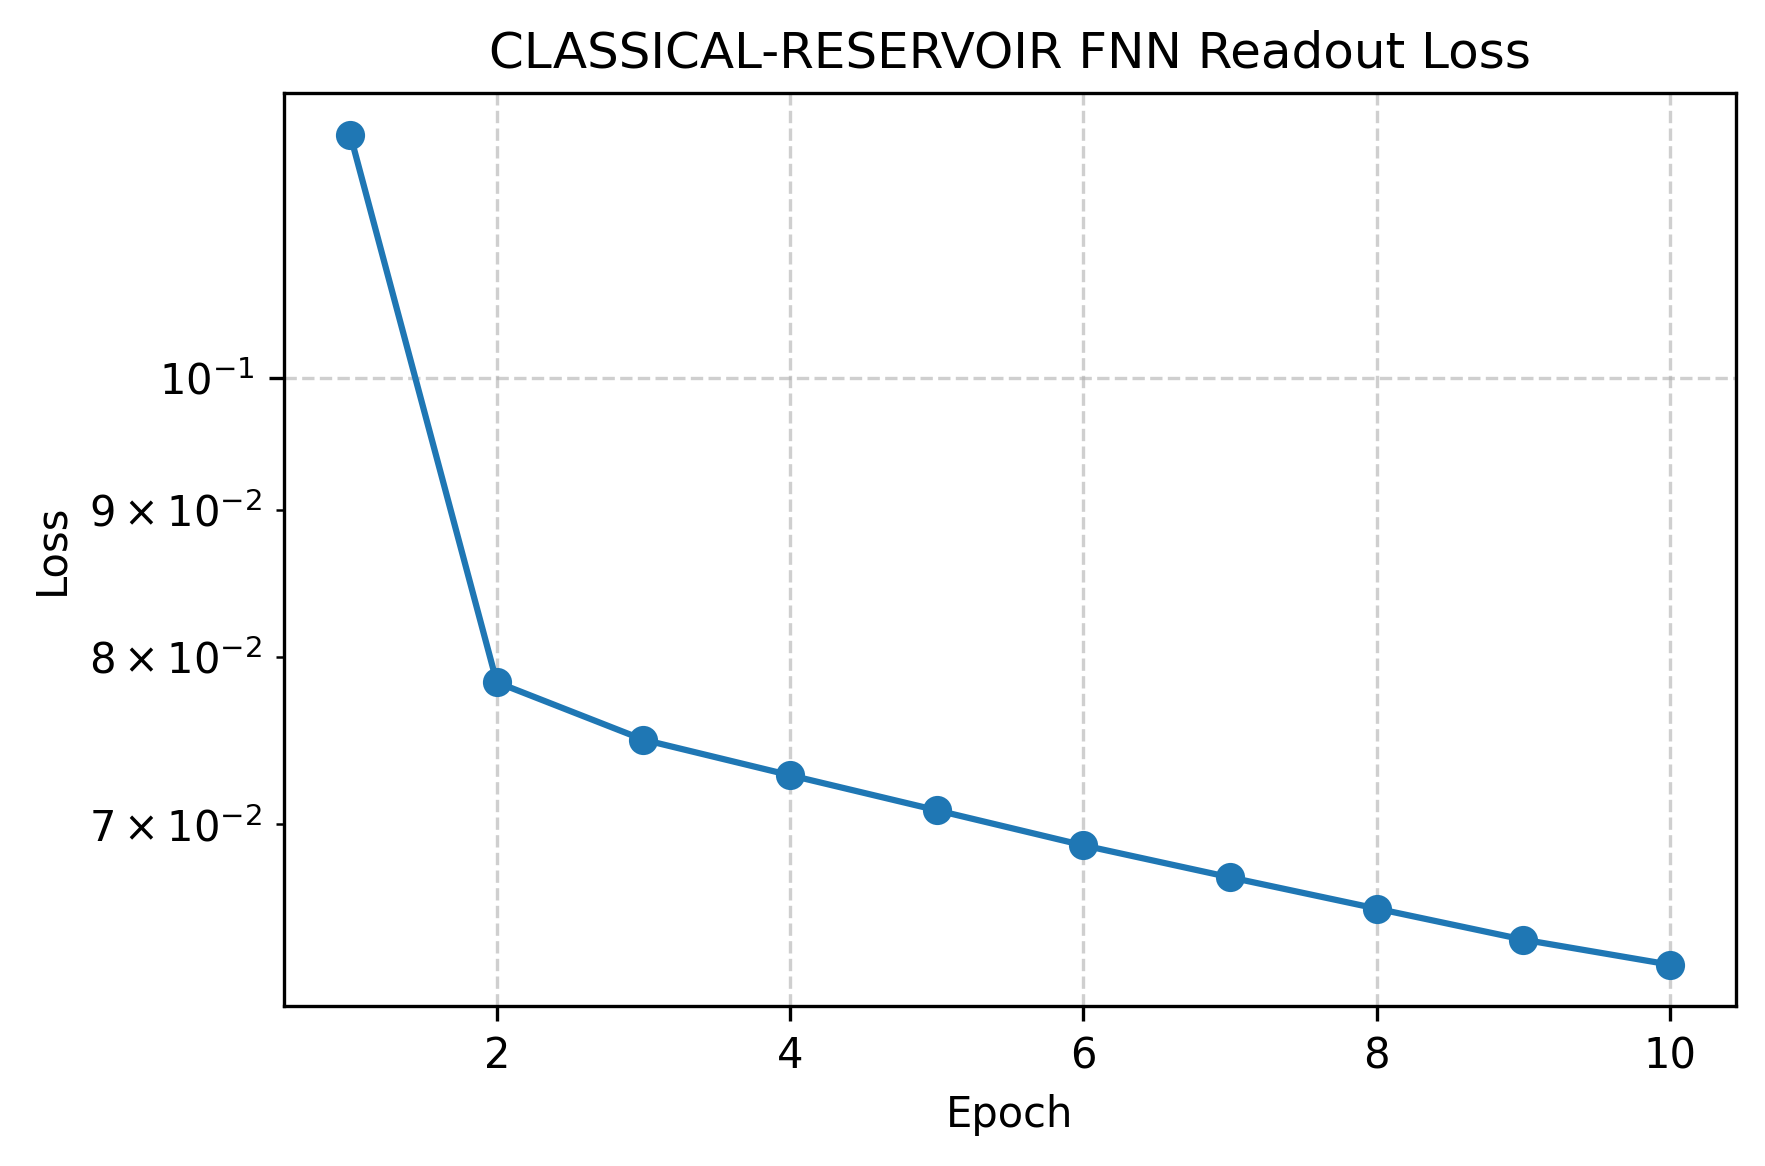
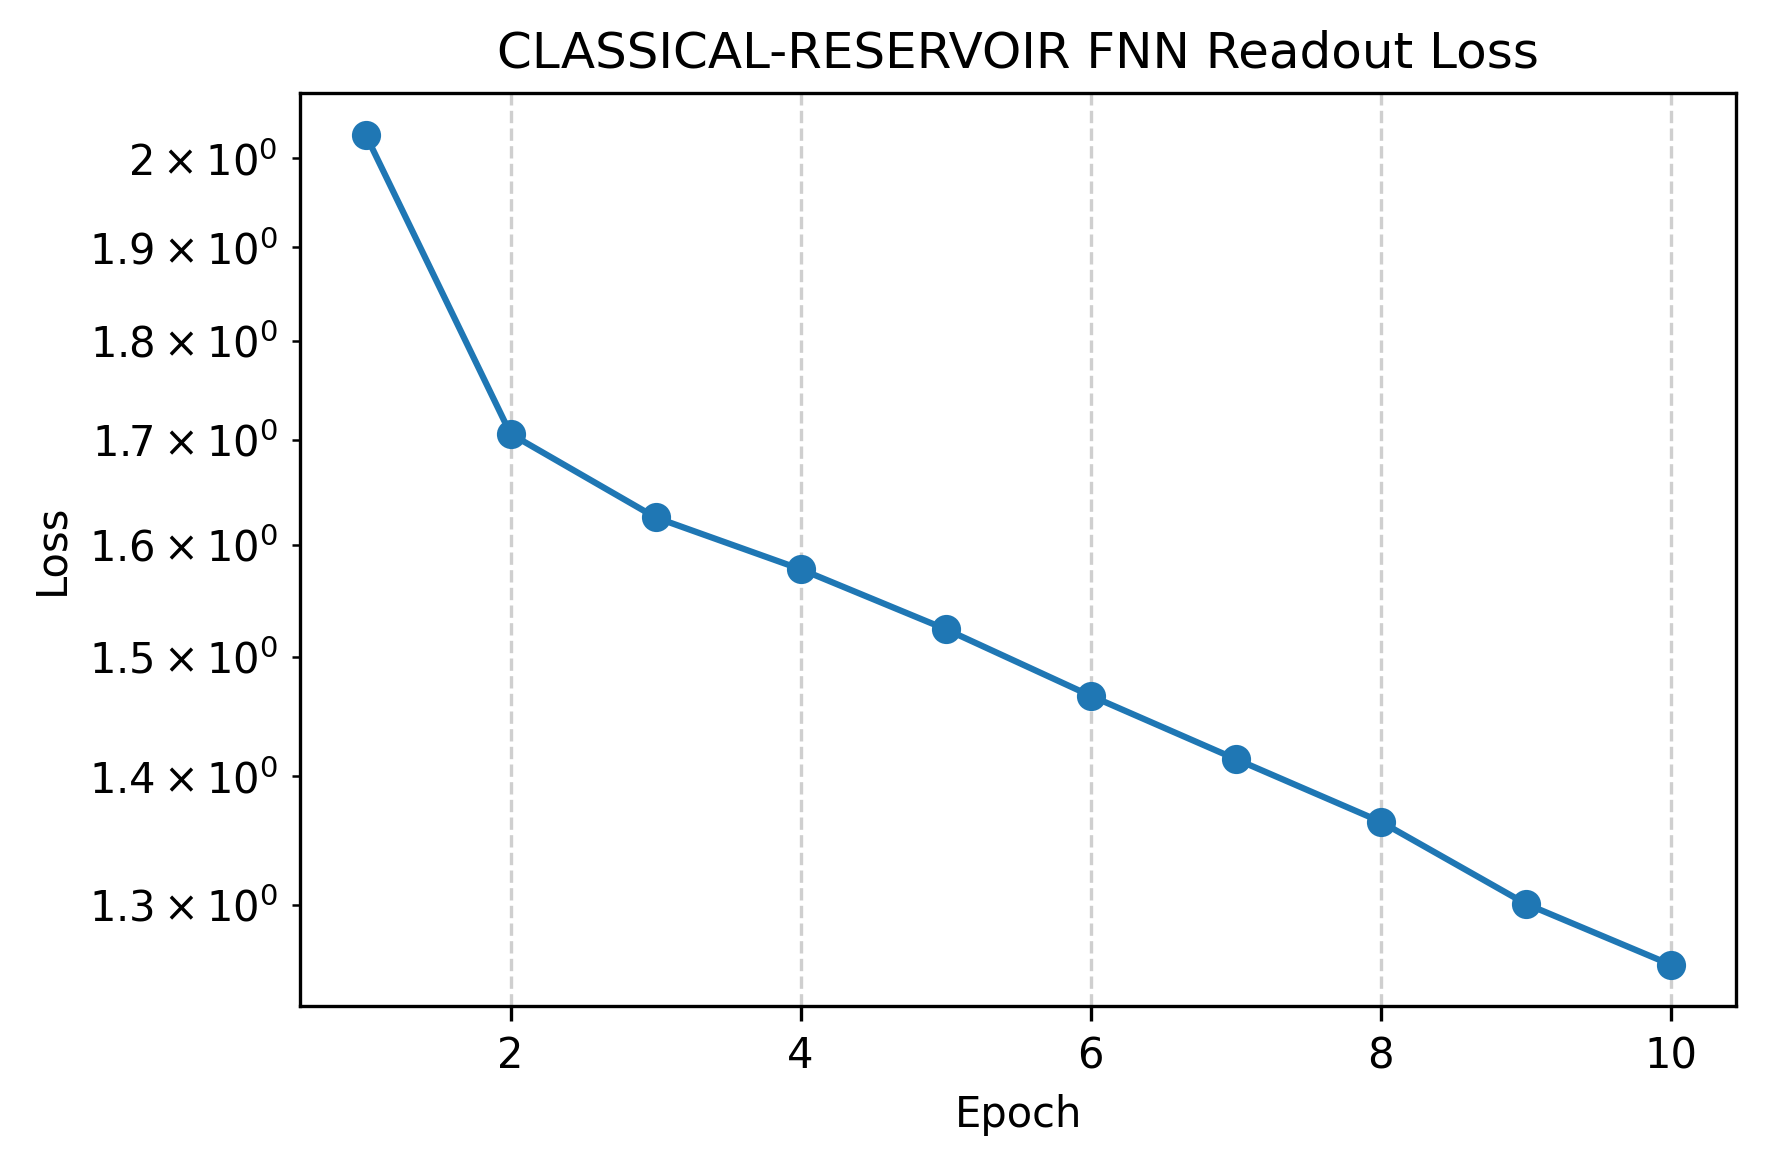
delete ENUM task_type

diff --git a/src/reservoir/pipelines/run.py b/src/reservoir/pipelines/run.py
@@ -15,7 +15,7 @@ import numpy as np
 
 # Core Imports
 from reservoir.models import ModelFactory
-from reservoir.core.identifiers import Dataset, TaskType
+from reservoir.core.identifiers import Dataset
 from reservoir.pipelines.config import DatasetMetadata, FrontendContext, ModelStack
 from reservoir.utils.printing import print_topology
 from reservoir.pipelines.generic_runner import UniversalPipeline
@@ -76,9 +76,7 @@ def _prepare_dataset(dataset: Dataset, training_override: Optional[TrainingConfi
     print("=== Step 1: Loading Dataset ===")
     dataset_enum, dataset_preset = dataset, DATASET_REGISTRY.get(dataset)
 
-    training_cfg = training_override or replace(
-        get_training_preset("standard"), classification=dataset.task_type is TaskType.CLASSIFICATION
-    )
+    training_cfg = training_override or get_training_preset("standard")
     dataset_split = load_dataset_with_validation_split(
         dataset,
         training_cfg,
@@ -95,7 +93,7 @@ def _prepare_dataset(dataset: Dataset, training_override: Optional[TrainingConfi
         dataset_name=dataset_preset.name,
         preset=dataset_preset,
         training=training_cfg,
-        task_type=dataset_preset.task_type,
+        classification=dataset_preset.classification,
         input_shape=input_shape,
     )
     return metadata, dataset_split
@@ -125,7 +123,7 @@ def _process_frontend(config: PipelineConfig, raw_split: SplitDataset, dataset_m
             
         # Fix: For Regression, targets (y) should also be scaled if they share the domain (Auto-Regression)
         # This ensures model output is scaled, matching the inverse_transform expectation.
-        if dataset_meta.task_type == TaskType.REGRESSION:
+        if not dataset_meta.classification:
              print("    [Preprocessing] Applying transforms to targets (y) for REGRESSION task.")
              # Note: fit=False to reuse scaler fitted on X
              if data_split.train_y is not None:
@@ -272,7 +270,8 @@ def _build_model_stack(
     topo_meta["details"] = details_meta
     
     # Add readout name to details for topology printing
-    readout = ReadoutFactory.create_readout(config.readout, dataset_meta.training)
+    is_classification = dataset_meta.classification
+    readout = ReadoutFactory.create_readout(config.readout, is_classification, dataset_meta.training)
     if readout is not None:
         readout_name = type(readout).__name__
         if hasattr(readout, 'hidden_layers') and readout.hidden_layers:
@@ -283,7 +282,7 @@ def _build_model_stack(
     
     print_topology(topo_meta)
 
-    metric = "accuracy" if dataset_meta.task_type is TaskType.CLASSIFICATION else "mse"
+    metric = "accuracy" if dataset_meta.classification else "mse"
     return ModelStack(
         model=model,
         readout=readout,
@@ -334,7 +333,7 @@ def run_pipeline(config: PipelineConfig, dataset: Dataset, training_config: Opti
         config,
         stack.topo_meta,
         **report_payload,
-        task_type=dataset_meta.task_type,
+        classification=dataset_meta.classification,
     )
 
     return results

diff --git a/src/reservoir/data/presets.py b/src/reservoir/data/presets.py
@@ -12,7 +12,7 @@ from .config import (
     MackeyGlassConfig,
     MNISTConfig, DatasetPreset,
 )
-from reservoir.core.identifiers import Dataset, TaskType
+from reservoir.core.identifiers import Dataset
 
 
 
@@ -20,7 +20,7 @@ DATASET_DEFINITIONS: Dict[Dataset, DatasetPreset] = {
     Dataset.SINE_WAVE: DatasetPreset(
         name="sine_wave",
         description="Multi-frequency sine wave composite",
-        task_type=TaskType.REGRESSION,
+        classification=False,
         config=SineWaveConfig(
             n_input=1,
             n_output=1,
@@ -35,7 +35,7 @@ DATASET_DEFINITIONS: Dict[Dataset, DatasetPreset] = {
     Dataset.LORENZ: DatasetPreset(
         name="lorenz",
         description="Lorenz attractor chaotic time series",
-        task_type=TaskType.REGRESSION,
+        classification=False,
         config=LorenzConfig(
             n_input=1,
             n_output=1,
@@ -53,7 +53,7 @@ DATASET_DEFINITIONS: Dict[Dataset, DatasetPreset] = {
     Dataset.LORENZ96: DatasetPreset(
         name="lorenz96",
         description="Lorenz 96 chaotic system",
-        task_type=TaskType.REGRESSION,
+        classification=False,
         config=Lorenz96Config(
             n_input=40,
             n_output=40,
@@ -69,7 +69,7 @@ DATASET_DEFINITIONS: Dict[Dataset, DatasetPreset] = {
     Dataset.MACKEY_GLASS: DatasetPreset(
         name="mackey_glass",
         description="Mackey-Glass chaotic time series",
-        task_type=TaskType.REGRESSION,
+        classification=False,
         config=MackeyGlassConfig(
             n_input=1,
             n_output=1,
@@ -89,7 +89,7 @@ DATASET_DEFINITIONS: Dict[Dataset, DatasetPreset] = {
     Dataset.MNIST: DatasetPreset(
         name="mnist",
         description="MNIST digit classification",
-        task_type=TaskType.CLASSIFICATION,
+        classification=True,
         config=MNISTConfig(
             n_input=28,
             n_output=10,

diff --git a/src/reservoir/models/presets.py b/src/reservoir/models/presets.py
@@ -8,7 +8,7 @@ from typing import Dict, Optional
 import numpy as np
 
 from reservoir.core.presets import StrictRegistry
-from reservoir.core.identifiers import AggregationMode, Preprocessing, Model, Dataset, TaskType
+from reservoir.core.identifiers import AggregationMode, Preprocessing, Model, Dataset
 from reservoir.models.config import (
     PreprocessingConfig,
     ProjectionConfig,
@@ -25,7 +25,7 @@ def get_model_preset(model: Model, dataset: Dataset) -> PipelineConfig:
     # Check if regression task to use time-series optimized preset
     ds_preset = get_dataset_preset(dataset)
 
-    if ds_preset.task_type == TaskType.REGRESSION and model == Model.CLASSICAL_RESERVOIR:
+    if not ds_preset.classification and model == Model.CLASSICAL_RESERVOIR:
         return TIME_CLASSICAL_RESERVOIR_PRESET
     
     preset = StrictRegistry(MODEL_PRESETS).get(model)
@@ -56,7 +56,7 @@ DEFAULT_RIDGE_READOUT = RidgeReadoutConfig(
     lambda_candidates=tuple(np.logspace(-12, 3, 30).tolist())
 )
 
-DEFAULT_FNN_READOUT = FNNReadoutConfig(hidden_layers=(1000,1000))
+DEFAULT_FNN_READOUT = FNNReadoutConfig(hidden_layers=(1000,))
 
 
 "=============================================Classification Presets============================================"
@@ -76,7 +76,7 @@ CLASSICAL_RESERVOIR_PRESET = PipelineConfig(
     preprocess=DEFAULT_PREPROCESS,
     projection=DEFAULT_PROJECTION,
     model=CLASSICAL_RESERVOIR_DYNAMICS,
-    readout=DEFAULT_FNN_READOUT
+    readout=DEFAULT_RIDGE_READOUT
 )
 
 FNN_DISTILLATION_PRESET = PipelineConfig(

diff --git a/src/reservoir/models/nn/fnn.py b/src/reservoir/models/nn/fnn.py
@@ -18,7 +18,7 @@ from reservoir.layers.adapters import Flatten
 class FNNModel(BaseFlaxModel):
     """Wrap FNNModule with BaseModel API using Flatten Adapter."""
 
-    def __init__(self, model_config: FNNConfig, training_config: TrainingConfig, input_dim: int, output_dim: int):
+    def __init__(self, model_config: FNNConfig, training_config: TrainingConfig, input_dim: int, output_dim: int, classification: bool = False):
         if not isinstance(model_config, FNNConfig):
             raise TypeError(f"FNNModel expects FNNConfig, got {type(model_config)}.")
         # input_dimの正当性チェックは残すが、実際のデータ形状との整合性はFNNクラスに任せる
@@ -31,7 +31,7 @@ class FNNModel(BaseFlaxModel):
         # input_dimはConfigとして保存するが、実際の初期化時には無視される（Flaxの推論に任せる）
         self.layer_dims: Sequence[int] = (int(input_dim), *hidden_layers, int(output_dim))
 
-        super().__init__({"layer_dims": self.layer_dims}, training_config)
+        super().__init__({"layer_dims": self.layer_dims}, training_config, classification=classification)
         self.adapter = Flatten()
 
     def train(self, inputs: jnp.ndarray, targets: Optional[jnp.ndarray] = None, **kwargs: Any) -> Dict[str, Any]:

diff --git a/src/reservoir/utils/reporting.py b/src/reservoir/utils/reporting.py
@@ -326,7 +326,7 @@ def generate_report(
     training_obj: Any,
     dataset_name: str,
     model_type_str: str,
-    task_type: Optional[Any] = None,
+    classification: bool = False,
     preprocessors: Optional[list[Any]] = None,
 ) -> None:
     # Loss plotting (distillation)
@@ -338,8 +338,7 @@ def generate_report(
 
     # Ridge search reporting
     train_res = _safe_get(results, "train", {})
-    task_val = task_type if task_type is not None else getattr(config, "task_type", None)
-    metric = "accuracy" if task_val and str(task_val).lower().find("class") != -1 else "mse"
+    metric = "accuracy" if classification else "mse"
     # print_ridge_search_results(train_res, metric)
 
     # ---------------------------------------------------------
@@ -349,7 +348,7 @@ def generate_report(
     precalc_preds = _safe_get(results, "outputs", {})
 
     # Classification plots
-    if task_val and str(task_val).lower().find("class") != -1:
+    if classification:
         filename_parts = _infer_filename_parts(topo_meta, training_obj, model_type_str, readout)
         confusion_filename = f"outputs/{dataset_name}/{'_'.join(filename_parts)}_confusion.png"
         selected_lambda = None

diff --git a/src/reservoir/models/nn/base.py b/src/reservoir/models/nn/base.py
@@ -42,13 +42,13 @@ class BaseModel(ABC):
 class BaseFlaxModel(BaseModel, ABC):
     """Adapter that turns a flax.linen Module into a BaseModel."""
 
-    def __init__(self, model_config: Dict[str, Any], training_config: TrainingConfig) -> None:
+    def __init__(self, model_config: Dict[str, Any], training_config: TrainingConfig, classification: bool = False) -> None:
         self.model_config = model_config
         self.training_config = training_config
         self.learning_rate: float = float(training_config.learning_rate)
         self.epochs: int = int(training_config.epochs)
         self.batch_size: int = int(training_config.batch_size)
-        self.classification: bool = bool(training_config.classification)
+        self.classification: bool = classification
         self.seed: int = int(model_config.get("seed", training_config.seed))
         self._model_def = self._create_model_def()
         self._state: Optional[train_state.TrainState] = None

diff --git a/src/reservoir/readout/fnn_readout.py b/src/reservoir/readout/fnn_readout.py
@@ -17,10 +17,12 @@ class FNNReadout(ReadoutModule):
     def __init__(
         self,
         hidden_layers: Optional[Tuple[int, ...]] = None,
-        training_config: Optional[TrainingConfig] = None
+        training_config: Optional[TrainingConfig] = None,
+        classification: bool = False
     ) -> None:
         self.hidden_layers = hidden_layers or ()
         self.training_config = training_config
+        self.classification = classification
         self._model: Optional[FNNModel] = None
         self._input_dim: Optional[int] = None
         self._output_dim: Optional[int] = None
@@ -47,7 +49,8 @@ class FNNReadout(ReadoutModule):
             model_config=fnn_config,
             training_config=self.training_config,
             input_dim=self._input_dim,
-            output_dim=self._output_dim
+            output_dim=self._output_dim,
+            classification=self.classification
         )
 
         # Train the model and store logs

diff --git a/src/reservoir/readout/factory.py b/src/reservoir/readout/factory.py
@@ -15,7 +15,8 @@ class ReadoutFactory:
     @staticmethod
     def create_readout(
         config: Optional[ReadoutConfig],
-        training_config: Optional[TrainingConfig] = None
+        classification: bool,
+        training_config: Optional[TrainingConfig] = None,
     ) -> Optional[ReadoutModule]:
         # None (End-to-End) の場合
         if config is None:
@@ -31,7 +32,11 @@ class ReadoutFactory:
 
         # FNNの場合
         elif isinstance(config, FNNReadoutConfig):
-            return FNNReadout(hidden_layers=config.hidden_layers, training_config=training_config)
+            return FNNReadout(
+                hidden_layers=config.hidden_layers,
+                training_config=training_config,
+                classification=classification
+            )
 
         raise TypeError(f"ReadoutFactory received unknown config type: {type(config)}")
 

diff --git a/src/reservoir/core/identifiers.py b/src/reservoir/core/identifiers.py
@@ -27,16 +27,6 @@ class Model(str, enum.Enum):
         return self.value
 
 
-class TaskType(str, enum.Enum):
-    """タスクの種類。"""
-
-    REGRESSION = "regression"
-    CLASSIFICATION = "classification"
-
-    def __str__(self) -> str:
-        return self.value
-
-
 class Dataset(str, enum.Enum):
     """データセットの種類。Values must match DATASET_REGISTRY keys exactly."""
 
@@ -45,13 +35,6 @@ class Dataset(str, enum.Enum):
     MACKEY_GLASS = "mackey_glass"
     LORENZ96 = "lorenz96"
     MNIST = "mnist"
-
-    @property
-    def task_type(self) -> TaskType:
-        """このデータセットが主に属するタスク種別。"""
-        if self is Dataset.MNIST:
-            return TaskType.CLASSIFICATION
-        return TaskType.REGRESSION
 
     def __str__(self) -> str:
         return self.value

diff --git a/src/reservoir/pipelines/generic_runner.py b/src/reservoir/pipelines/generic_runner.py
@@ -13,7 +13,7 @@ from tqdm.auto import tqdm
 
 from reservoir.pipelines.config import ModelStack, FrontendContext, DatasetMetadata
 from reservoir.models.presets import PipelineConfig
-from reservoir.core.identifiers import TaskType
+
 from reservoir.utils.reporting import (
     calculate_chaos_metrics,
     print_ridge_search_results,
@@ -157,7 +157,7 @@ class UniversalPipeline:
             val_pred = val_Z
 
 
-        elif dataset_meta.task_type is TaskType.CLASSIFICATION:
+        elif dataset_meta.classification:
             # === Classification: Open-Loop Evaluation ===
             print("    [Runner] Classification task: Using Open-Loop evaluation.")
             

diff --git a/src/reservoir/pipelines/config.py b/src/reservoir/pipelines/config.py
@@ -4,7 +4,7 @@ from __future__ import annotations
 from dataclasses import dataclass
 from typing import Optional, Any, Dict
 
-from reservoir.core.identifiers import  Dataset, TaskType
+from reservoir.core.identifiers import Dataset
 from reservoir.core.interfaces import ReadoutModule
 from reservoir.data import SplitDataset
 from reservoir.data.config import DatasetPreset
@@ -30,7 +30,7 @@ class DatasetMetadata:
     dataset_name: str
     preset: DatasetPreset
     training: TrainingConfig
-    task_type: TaskType
+    classification: bool
     input_shape: tuple[int, ...]
 
 

diff --git a/src/reservoir/training/config.py b/src/reservoir/training/config.py
@@ -18,7 +18,6 @@ class TrainingConfig:
     batch_size: int
     epochs: int
     learning_rate: float
-    classification: bool
     seed: int
 
     # Data Splitting
@@ -33,7 +32,6 @@ class TrainingConfig:
             "batch_size": int(self.batch_size),
             "epochs": int(self.epochs),
             "learning_rate": float(self.learning_rate),
-            "classification": bool(self.classification),
             "seed": int(self.seed),
             "train_size": float(self.train_size),
             "val_size": float(self.val_size),
